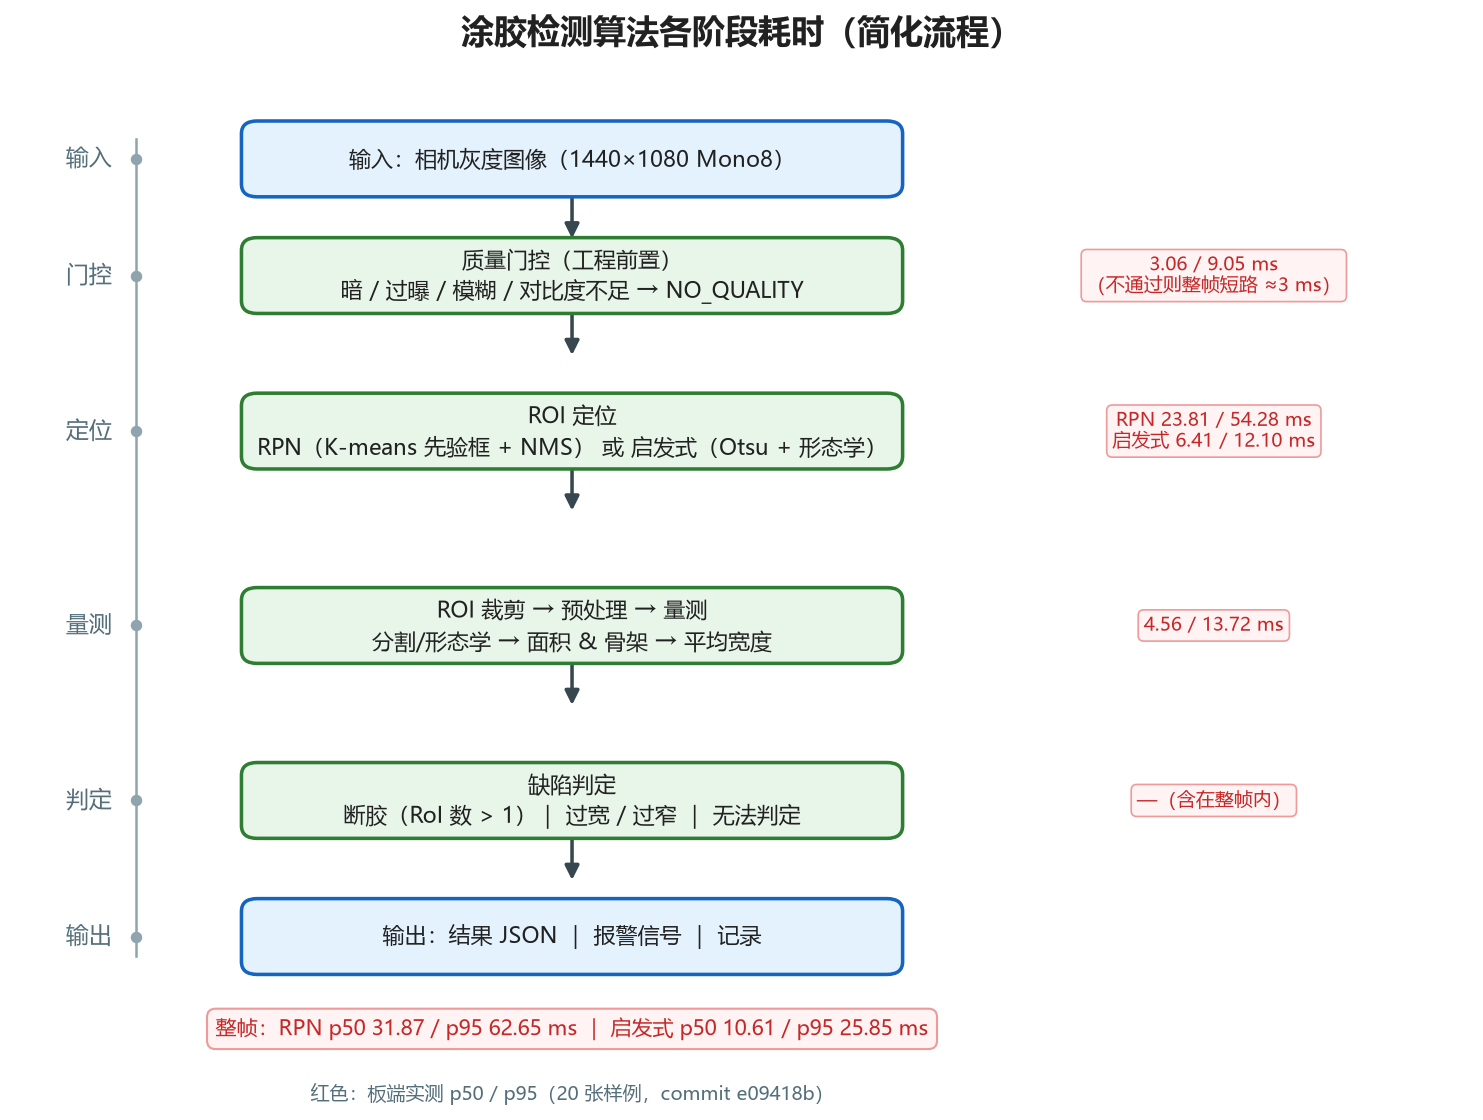
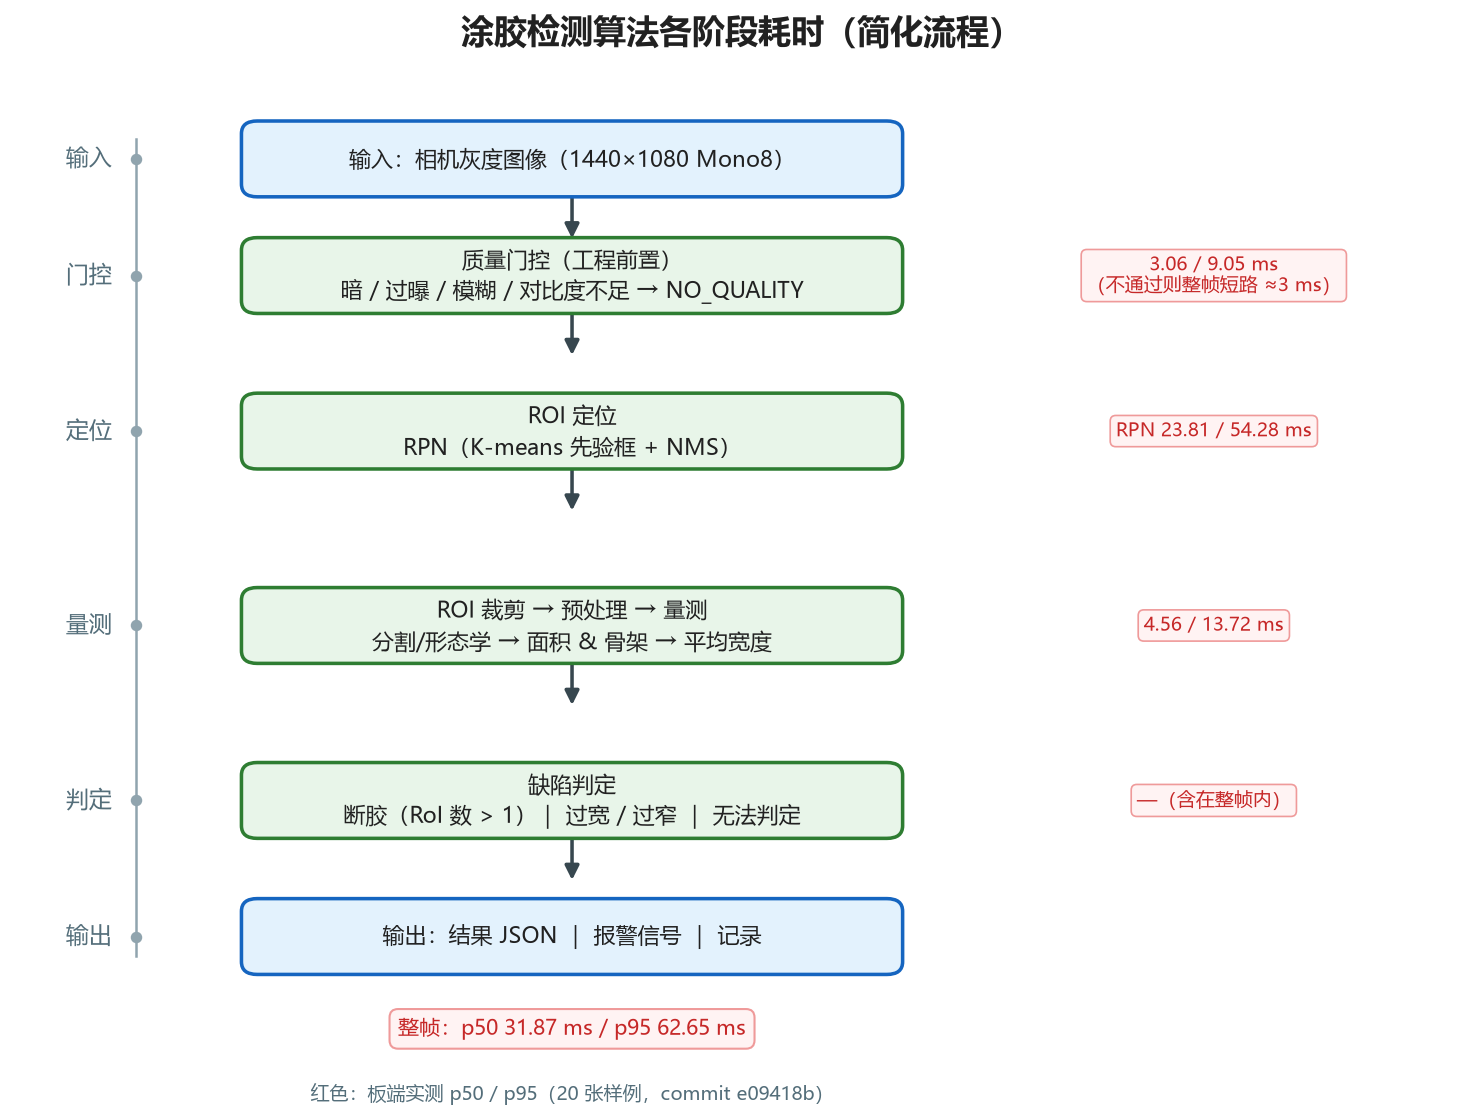
Drop latency comparison from report
Report section 5 now shows only the RPN pipeline stage timings (table plus simplified flowchart); the heuristic-vs-RPN bar chart and comparison bullets are removed, and the diagram no longer labels heuristic numbers.

Changed region(s): [[0.1241, 0.9062, 0.6514, 0.9375], [0.1551, 0.375, 0.5893, 0.4062], [0.7444, 0.3438, 0.8995, 0.4062]]

diff --git a/scripts/make_flow_diagram.py b/scripts/make_flow_diagram.py
@@ -179,7 +179,7 @@ def draw_simple_timing(ax):
     boxes = [
         (92, "输入：相机灰度图像（1440×1080 Mono8）", IO),
         (80, "质量门控（工程前置）\n暗 / 过曝 / 模糊 / 对比度不足 → NO_QUALITY", DONE),
-        (64, "ROI 定位\nRPN（K-means 先验框 + NMS） 或 启发式（Otsu + 形态学）", DONE),
+        (64, "ROI 定位\nRPN（K-means 先验框 + NMS）", DONE),
         (44, "ROI 裁剪 → 预处理 → 量测\n分割/形态学 → 面积 & 骨架 → 平均宽度", DONE),
         (26, "缺陷判定\n断胶（RoI 数 > 1）｜ 过宽 / 过窄 ｜ 无法判定", DONE),
         (12, "输出：结果 JSON ｜ 报警信号 ｜ 记录", IO),
@@ -193,7 +193,7 @@ def draw_simple_timing(ax):
 
     timing = [
         (80, "3.06 / 9.05 ms\n（不通过则整帧短路 ≈3 ms）"),
-        (64, "RPN 23.81 / 54.28 ms\n启发式 6.41 / 12.10 ms"),
+        (64, "RPN 23.81 / 54.28 ms"),
         (44, "4.56 / 13.72 ms"),
         (26, "—（含在整帧内）"),
     ]
@@ -201,7 +201,7 @@ def draw_simple_timing(ax):
         timing_text(ax, 99, y, text, fontsize=9.0)
 
     ax.text(46, 2.5,
-            "整帧：RPN p50 31.87 / p95 62.65 ms ｜ 启发式 p50 10.61 / p95 25.85 ms",
+            "整帧：p50 31.87 ms / p95 62.65 ms",
             ha="center", va="center", fontsize=10.2, color=TIMING,
             bbox=dict(boxstyle="round,pad=0.4", facecolor="#fff3f3", edgecolor="#ef9a9a"))
 

diff --git a/docs/project/camera-infer-verification-2026-11-22.md b/docs/project/camera-infer-verification-2026-11-22.md
@@ -41,12 +41,14 @@
 
 ![简化算法流程与各阶段实测耗时](figures/algorithm-pipeline-timing-simple.png)
 
-![各阶段耗时对比](figures/stage-latency.png)
+| 阶段 | p50 / p95（ms） |
+| --- | --- |
+| 质量门控 | 3.06 / 9.05（不通过时整帧短路，约 3 ms） |
+| ROI 定位（RPN） | 23.81 / 54.28 |
+| 裁剪 + 预处理 + 量测 | 4.56 / 13.72 |
+| 整帧 | 31.87 / 62.65 |
 
-- RPN 接入后主要增量在**定位**（p50 6.41 → 23.81 ms，约 +17 ms）；
-- 量测阶段稳定在 4.3–4.6 ms，与定位方式无关；
-- 整帧 p50：启发式 10.61 ms，RPN 31.87 ms；p95 分别为 25.85 / 62.65 ms。
-- 口径：p50 为中位数（典型情况），p95 表示 95% 的帧在该时间内完成（反映尾部抖动）。
+口径：p50 为中位数（典型情况），p95 表示 95% 的帧在该时间内完成（反映尾部抖动）。
 
 ## 六、当前限制
 
